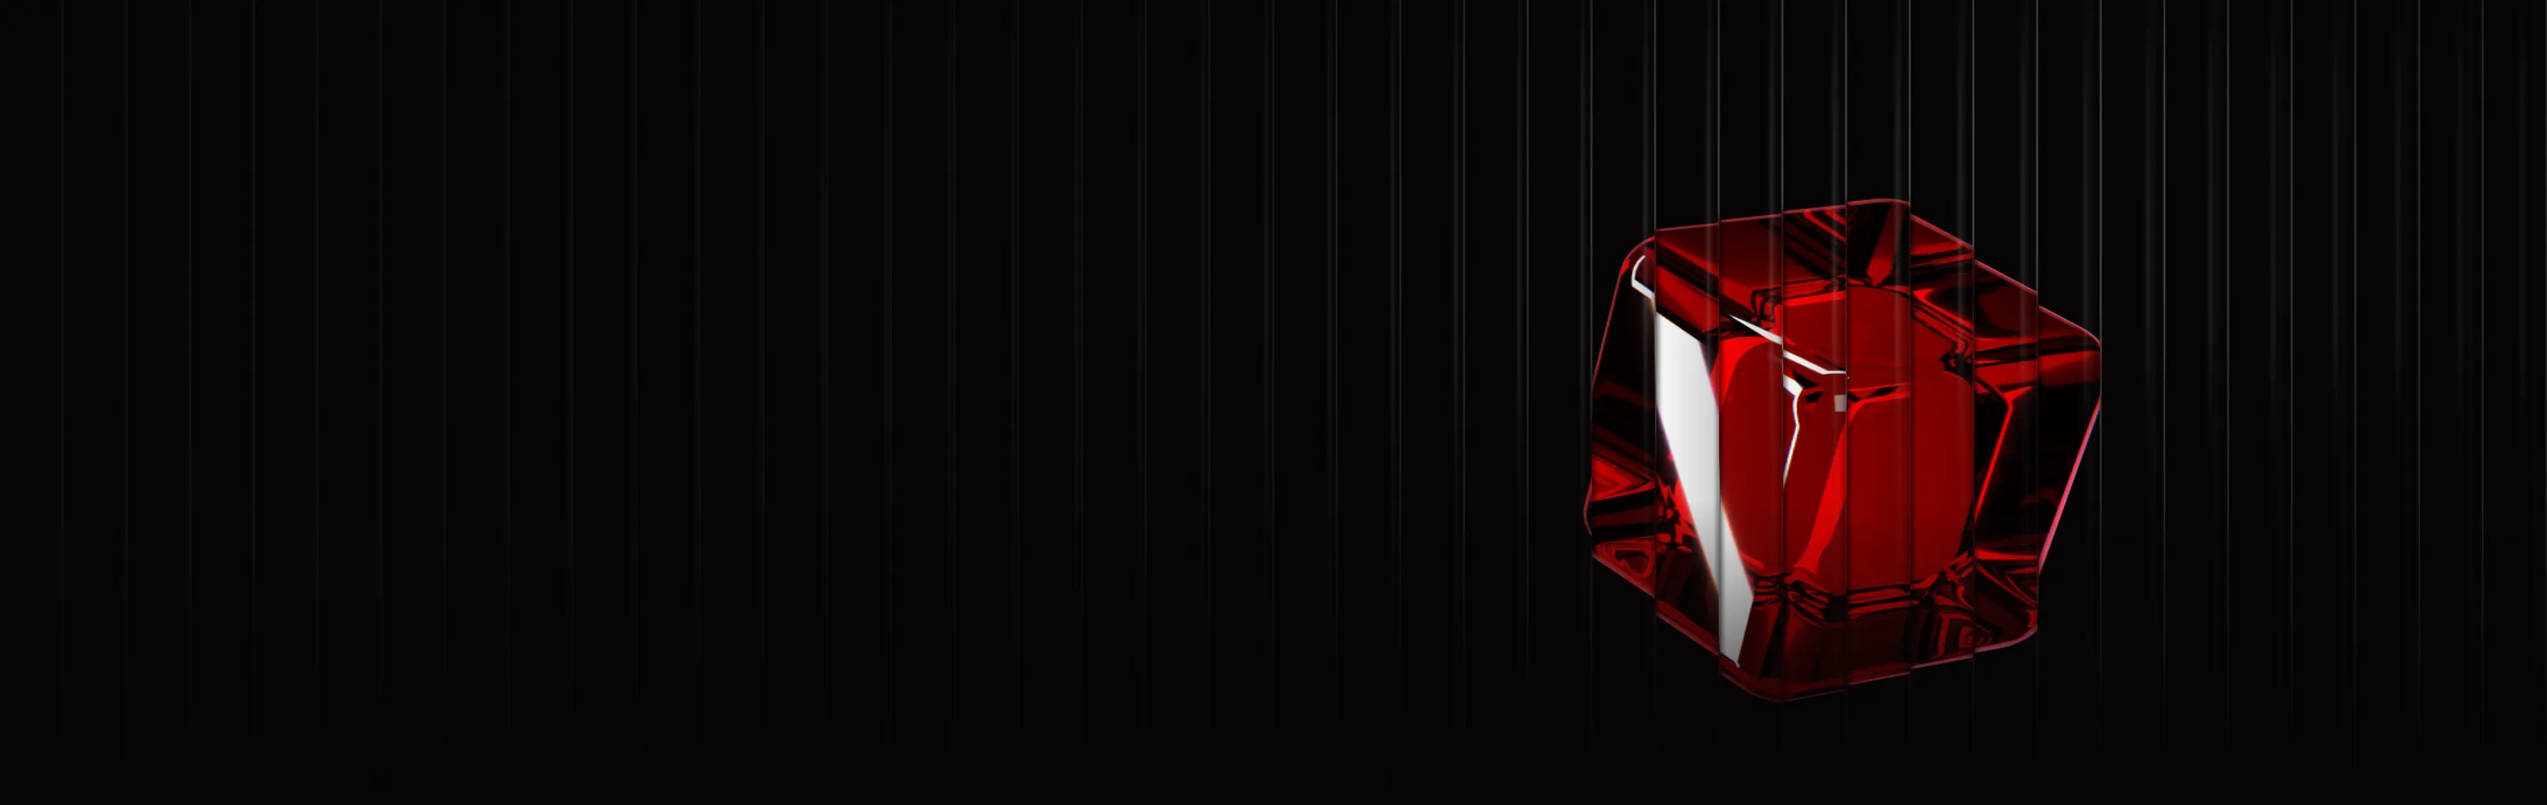
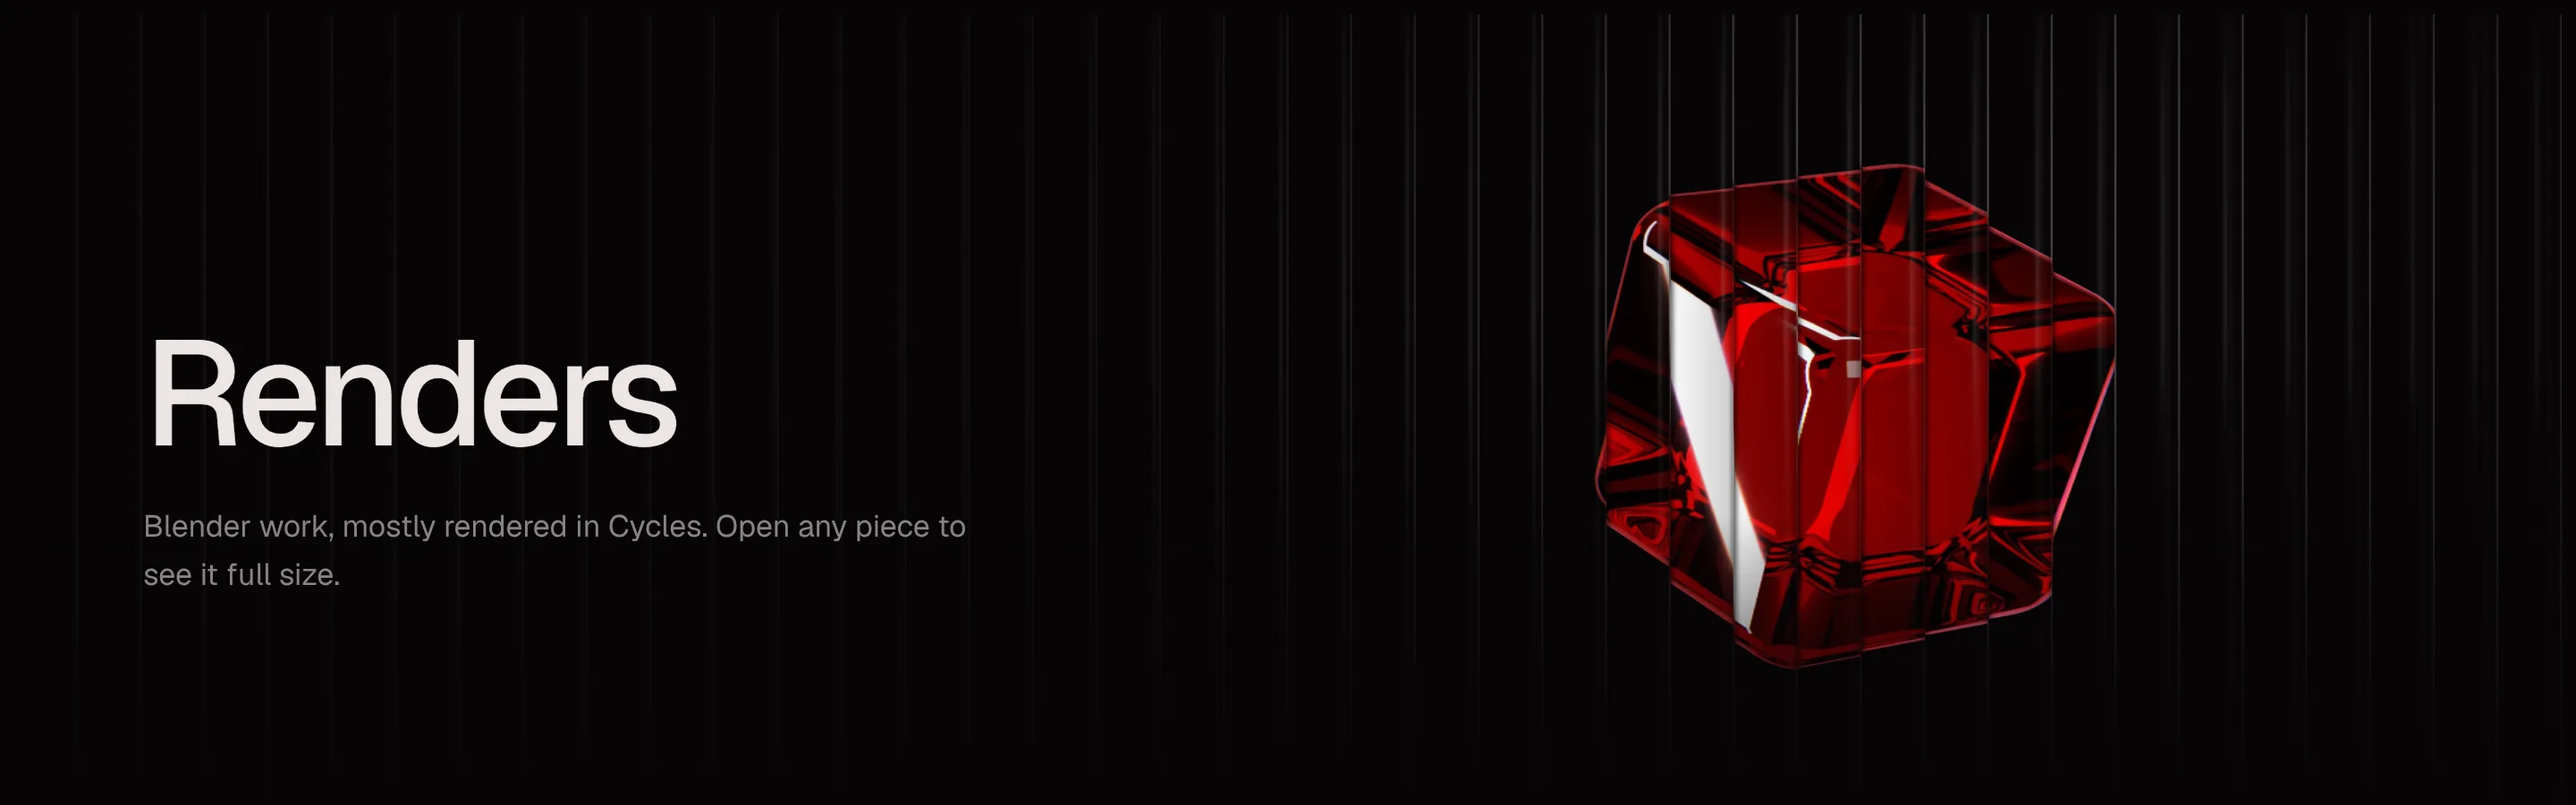
Preview: restore cube frames 17-19, new renders poster
Claude-Session: https://claude.ai/code/session_015iS8hJsCnV8m3TxSPABS12

Changed region(s): [[0.5938, 0.1244, 0.8438, 0.8711], [0.0625, 0.4044, 0.2812, 0.56], [0.0625, 0.6222, 0.375, 0.7467]]

diff --git a/public/renders/index.html b/public/renders/index.html
@@ -94,7 +94,7 @@ a{color:inherit;text-decoration:none}
 </head>
 <body>
 <section class="hero sub" id="top" aria-label="Renders" data-base="../" data-plate="a/hero-renders.webp?v=9a6bc93f" data-turn="a/turn-renders/b" data-tv="cd5d8a32" data-k="1" data-dx="0" data-dy="0" data-x=".72" data-y=".5" data-size=".66" data-y-n=".3" data-size-n=".38" data-tn="25" data-tr="12" data-td=".9" data-ta=".6">
-  <picture class="poster" id="poster" aria-hidden="true"><source media="(max-width: 760px)" srcset="../a/hero-renders-poster-m.webp?v=4deaf58a"><img src="../a/hero-renders-poster.webp?v=665314db" alt="" decoding="async" loading="lazy"></picture>
+  <picture class="poster" id="poster" aria-hidden="true"><source media="(max-width: 760px)" srcset="../a/hero-renders-poster-m.webp?v=f1f768a2"><img src="../a/hero-renders-poster.webp?v=a0f277a3" alt="" decoding="async" loading="lazy"></picture>
   <noscript><style>.poster{display:block}</style></noscript>
   <canvas id="glass" aria-hidden="true"></canvas>
   <header class="top gut"><div class="wrap"><a class="brand" href="../">BrAtUkA</a><nav class="nav" aria-label="Site"><a href="../#work" class="opt">Projects</a><a href="../renders/" aria-current="page">Renders</a><a href="../gallery/">Gallery</a><a href="../#about" class="opt">About</a><a href="../#contact">Contact</a></nav></div></header>
